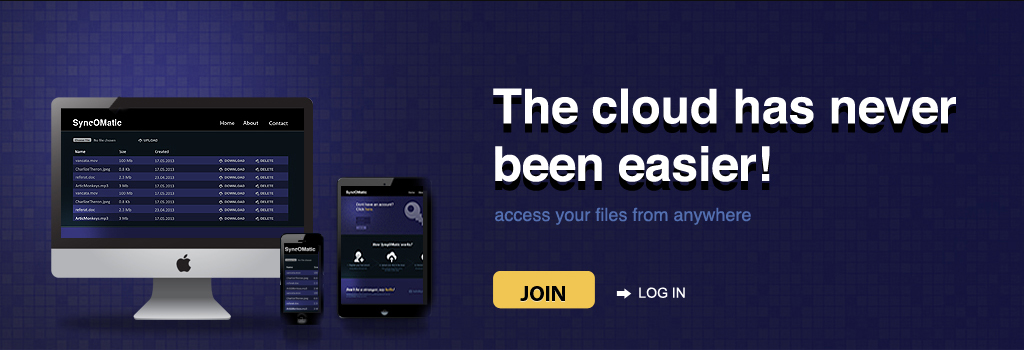
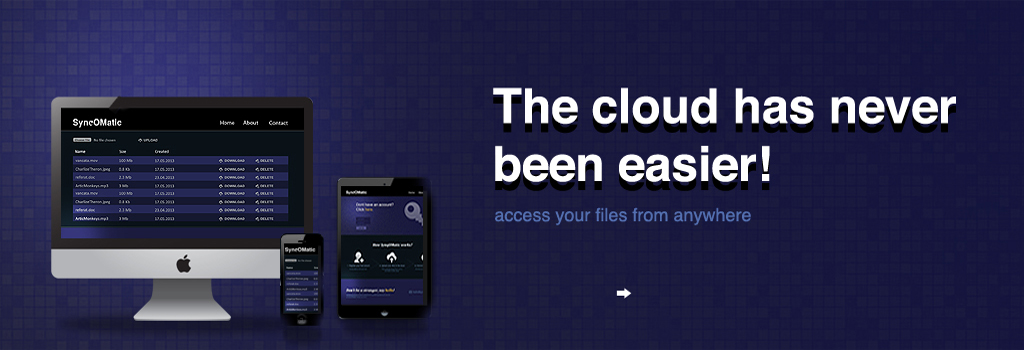
Add login and join buttons on index page. #14

diff --git a/syncomatic/static/style.css b/syncomatic/static/style.css
@@ -8,17 +8,21 @@ body { margin: 0; background-color: #1a1a1a; }
 .header .title { float: left; margin-left: 40px; margin-top: 40px; }
 .header .header_menu { margin-right: 50px; }
 .header li { float: right; margin-right: 40px; margin-top: 30px; }
-.header a { color: #f2f2f2; text-decoration: none; font-family: Arial; font-size: x-large; }
+.header a { color: #f2f2f2; font-family: Arial; font-size: x-large; }
 .header hr { margin-bottom: 8px; border: none; height: 1px; background-color: #f2f2f2; }
 
 
 /* Body. */
-.not_logged_in_index_container { background-image: url('index_container.jpg'); height: 350px; }
+.not_logged_in_index_container { position: relative; background-image: url('index_container.jpg'); height: 350px; }
 .logged_in_index_container { height: 350px; }
-.login_container { background-image: url('login_container.jpg'); height: 350px; }
-.register_container { background-image: url('register_container.jpg'); height: 350px; }
-.how_it_works_container { background-image: url('how_it_works.jpg'); height: 404px; }
+.login_container { position: relative; background-image: url('login_container.jpg'); height: 350px; }
+.register_container { position: relative; background-image: url('register_container.jpg'); height: 350px; }
+.how_it_works_container { position: relative; background-image: url('how_it_works.jpg'); height: 404px; }
 
+.not_logged_in_index_container a { color: #000; }
+.not_logged_in_index_container button.register { background-color: #f0c454; width: 102px; height: 38px; position: absolute; bottom: 41px; right: 429px; }
+.not_logged_in_index_container button.register span { font-size: 18px; font-weight: bold; position: absolute; bottom: 5px; right: 30px; }
+.not_logged_in_index_container a.login { position: absolute; color: #fff; font-family: Arial; font-size: 14px; bottom: 49px; right: 337px; }
 
 /* Footer. */
 .footer { background-image: url('footer_container.jpg'); height: 226px; }
@@ -31,3 +35,9 @@ body { margin: 0; background-color: #1a1a1a; }
 /* Misc. */
 .form_errors { font-size: 80%; color: red; }
 .header a.active { color: #f0c454; }
+/* Make a button smoother by adding rounded corners and no border. */
+button { -moz-border-radius: 7px; -webkit-border-radius: 7px; -khtml-border-radius: 7px; border-radius: 7px; border: none; }
+/* Add shadow to button of registering. */
+button.shadow { -o-box-shadow: inset 0 0 3px #000; -moz-box-shadow: inset 0 0 3px #000; -webkit-box-shadow: inset 0 0 3px #000; box-shadow: inset 0 0 3px #000; }
+button:hover { cursor: pointer; cursor: hand; }
+a { text-decoration: none; }

diff --git a/syncomatic/templates/index.html b/syncomatic/templates/index.html
@@ -36,6 +36,8 @@
         </div>
     {% else %}
         <div class="not_logged_in_index_container group">
+             <a href="{{url_for('register')}}"><button class="register shadow"><span >JOIN</span></button></a>
+             <a href="{{url_for('login')}}" class="login">LOG IN</a>
         </div>
     {% endif %}
 {% endblock %}
